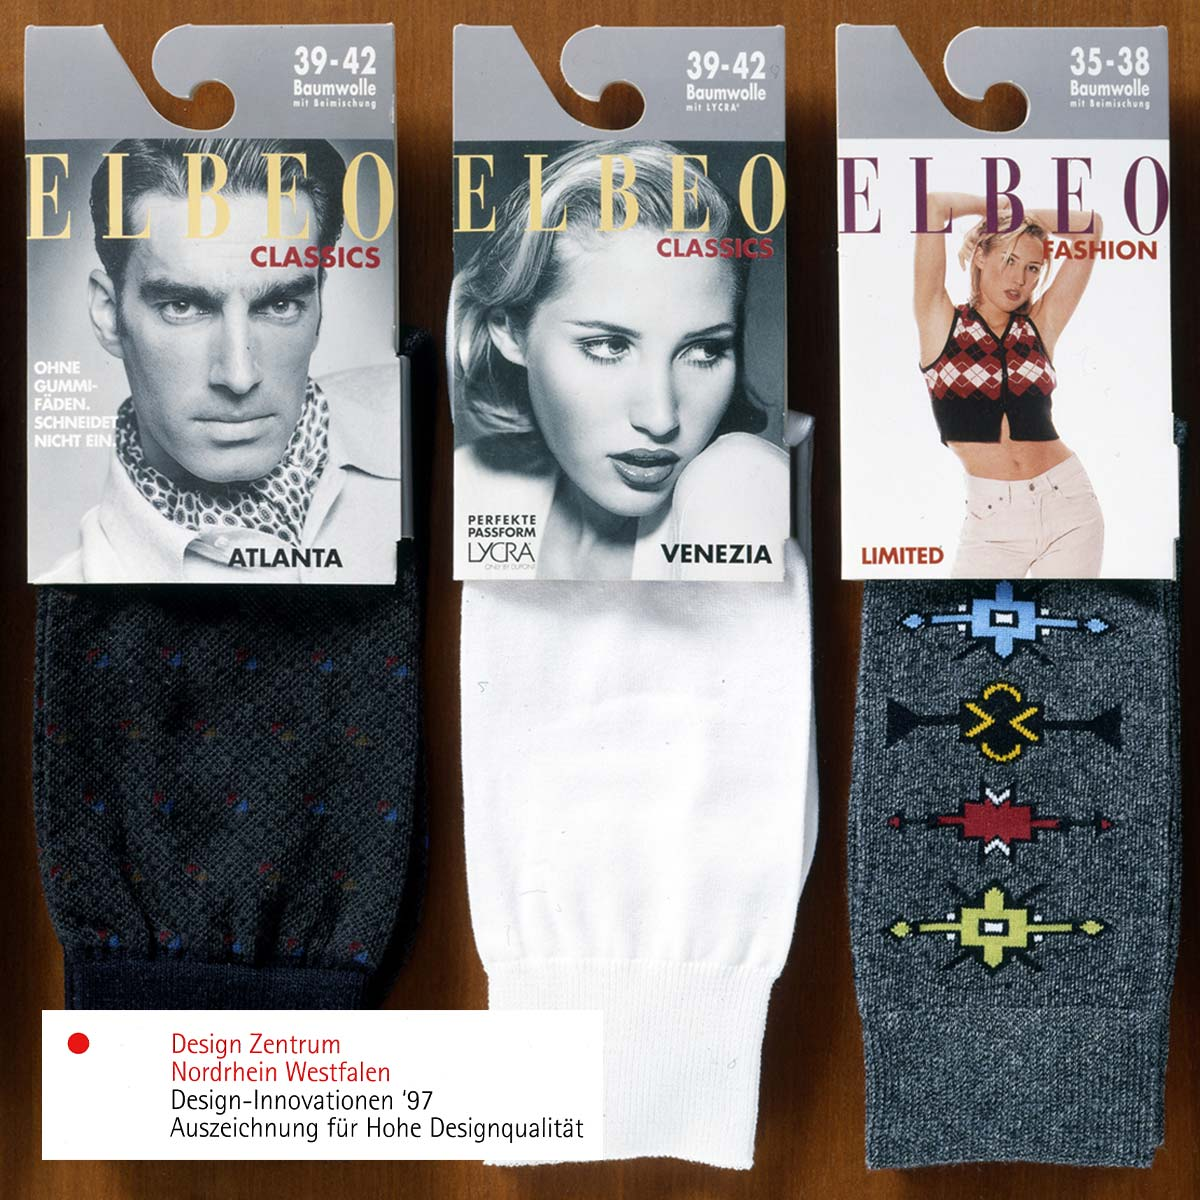
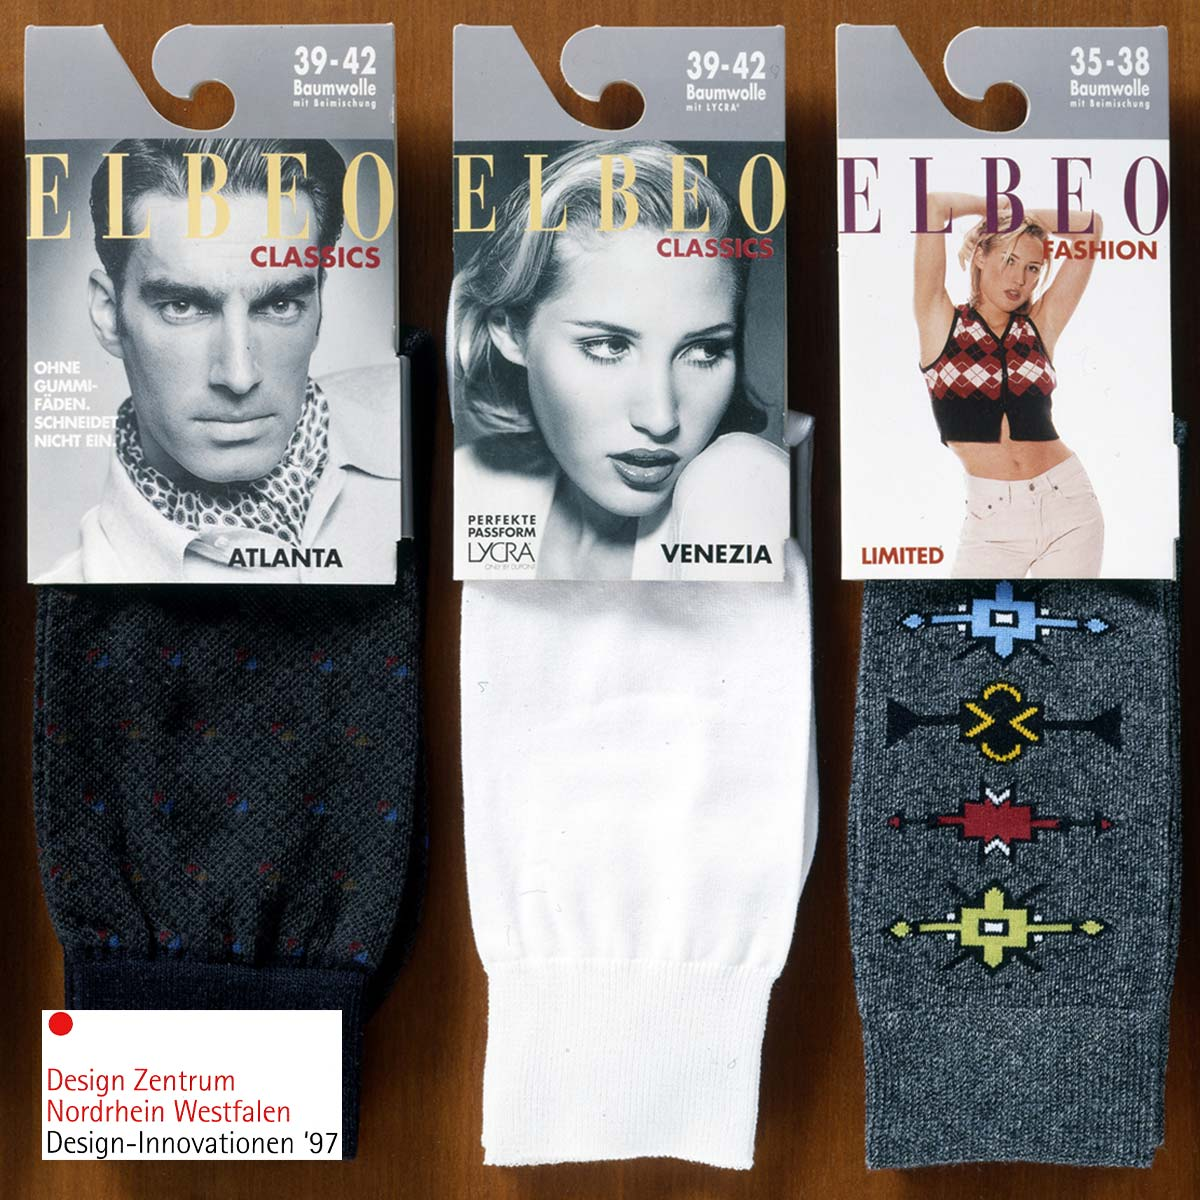
ELBEO-Socks design award label updated.

Changed region(s): [[0.0308, 0.8325, 0.4933, 0.9867]]

diff --git a/work/ELBEO_Socks_Packaging/index.html b/work/ELBEO_Socks_Packaging/index.html
@@ -40,7 +40,7 @@
   <main>
     <section class="project-info">
       <div class="awards">
-        <img class="awards-label" src="Design-Innovationen NRW 1997.jpg" alt="Design Innovation NRW 1997 Award label">
+        <img class="awards-label" src="Design-Innovationen NRW 1997-2.jpg" alt="Design Innovation NRW 1997 Award label">
       </div>
       <button class="back"></button>
       <div class="grid project-text">
